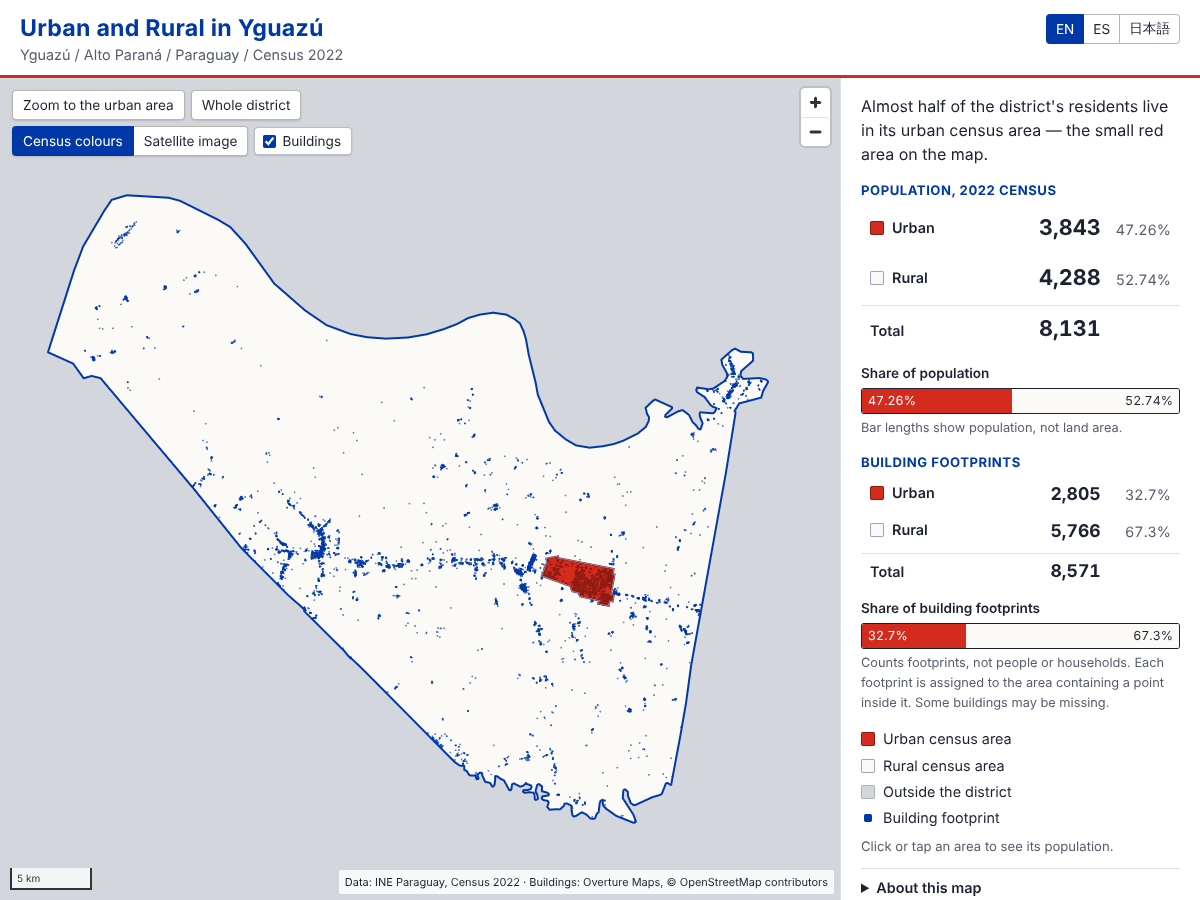
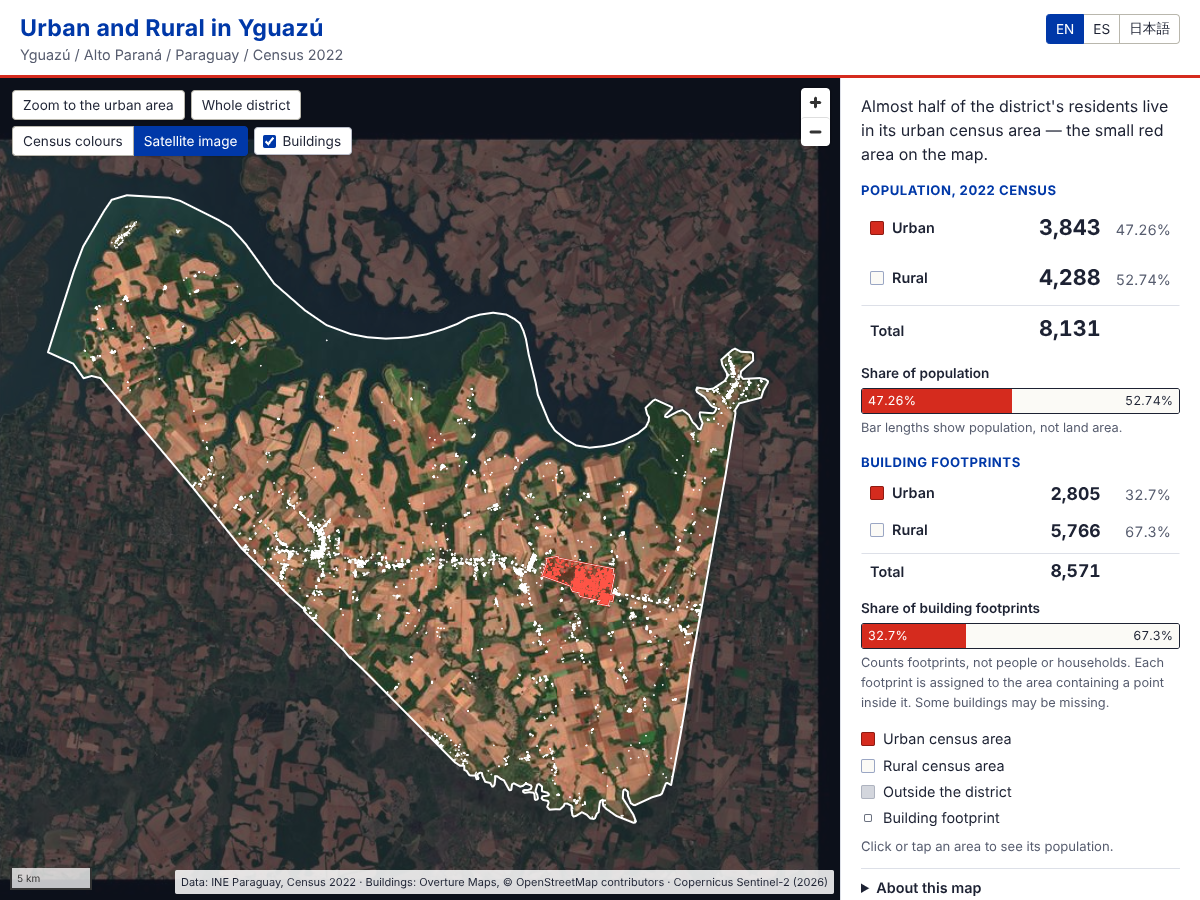
初期表示を衛星写真と建物にする
衛星写真表示では都市区域内の建物を赤、農村の建物を白で描き、都市区域の
塗りを濃くして小さな都市区域が見えるようにする。凡例と画面キャプチャを更新。

diff --git a/src/main.ts b/src/main.ts
@@ -28,6 +28,7 @@ const C = {
   outside: "#d3d6dd",
   buildingRural: "#0038a8",
   buildingUrban: "#ffffff",
+  satUrbanBuilding: "#ff5446",
 };
 const SATELLITE_TILES = `${new URL(import.meta.env.BASE_URL, location.href).href}tiles/s2-20260926/{z}/{x}/{y}.jpg`;
 // タイルを作った範囲（地区の外接矩形 + 0.03°）
@@ -65,7 +66,8 @@ let buildingError: unknown = null;
 let selected: number | null = null;
 let popup: maplibregl.Popup | null = null;
 let loadError: unknown = null;
-let view: "census" | "satellite" = "census";
+// 初期表示は衛星写真＋建物
+let view: "census" | "satellite" = "satellite";
 let showBuildings = true;
 
 function stats() {
@@ -290,23 +292,24 @@ function applyView() {
   map.setPaintProperty(
     "area-fill",
     "fill-opacity",
-    sat ? ["case", isUrban, ["case", isSelected, 0.35, 0.18], ["case", isSelected, 0.18, 0]] : 1,
+    sat ? ["case", isUrban, ["case", isSelected, 0.45, 0.3], ["case", isSelected, 0.18, 0]] : 1,
   );
   map.setPaintProperty("area-line", "line-color", ["case", isUrban, sat ? C.red : C.redDark, sat ? "#ffffff" : C.ruralLine]);
   map.setPaintProperty("district-outline", "line-color", sat ? "#ffffff" : C.blue);
   map.setPaintProperty(
     "buildings",
     "fill-color",
-    sat ? "#ffffff" : ["case", isUrban, C.buildingUrban, C.buildingRural],
+    // 衛星写真では都市の建物を赤、農村の建物を白にして、都市区域が赤く見えるようにする
+    sat ? ["case", isUrban, C.satUrbanBuilding, "#ffffff"] : ["case", isUrban, C.buildingUrban, C.buildingRural],
   );
   map.setPaintProperty("buildings", "fill-opacity", sat ? 0.85 : ["case", isUrban, 0.9, 0.75]);
   map.setPaintProperty(
     "building-points",
     "circle-color",
     // 広域では都市の点を濃い赤にして、赤い都市区域が点で白く埋もれないようにする
-    sat ? "#ffffff" : ["case", isUrban, C.redDark, C.buildingRural],
+    sat ? ["case", isUrban, C.satUrbanBuilding, "#ffffff"] : ["case", isUrban, C.redDark, C.buildingRural],
   );
-  map.setPaintProperty("building-points", "circle-opacity", sat ? 0.8 : ["case", isUrban, 0.55, 0.6]);
+  map.setPaintProperty("building-points", "circle-opacity", sat ? 0.9 : ["case", isUrban, 0.55, 0.6]);
   $("view-census").setAttribute("aria-pressed", String(!sat));
   $("view-satellite").setAttribute("aria-pressed", String(sat));
   document.body.dataset.view = view;

diff --git a/index.html b/index.html
@@ -25,8 +25,8 @@
           </div>
           <div class="row layers">
             <div class="seg" role="group">
-              <button type="button" id="view-census" data-t="viewCensus" aria-pressed="true" disabled></button>
-              <button type="button" id="view-satellite" data-t="viewSatellite" aria-pressed="false" disabled></button>
+              <button type="button" id="view-census" data-t="viewCensus" aria-pressed="false" disabled></button>
+              <button type="button" id="view-satellite" data-t="viewSatellite" aria-pressed="true" disabled></button>
             </div>
             <label class="check"><input type="checkbox" id="show-buildings" disabled /> <span data-t="showBuildings"></span></label>
           </div>

diff --git a/src/style.css b/src/style.css
@@ -159,6 +159,8 @@ button:disabled { opacity: 0.45; cursor: default; }
 .sw-rural { background: var(--rural); border: 1px solid var(--rural-line); }
 .sw-outside { background: var(--outside); border: 1px solid #aeb3bf; }
 .sw-building { background: var(--blue); border: 1px solid var(--blue); width: 8px; height: 8px; margin: 3px; }
+/* 衛星写真表示では建物は白（都市区域内は赤）で描くので凡例も合わせる */
+body[data-view="satellite"] .sw-building { background: #fff; border-color: #6b7180; }
 
 .legend { list-style: none; padding: 0; margin: 16px 0 4px; display: grid; gap: 4px; }
 .legend li { display: flex; align-items: center; gap: 8px; }

diff --git a/README.md b/README.md
@@ -90,7 +90,9 @@ python scripts/s2-tiles.py work public/tiles/s2-20260926
 - 座標が経緯度の範囲にあるか（緯度・経度の入れ替わりがないか）、都市・農村が1行ずつあるかを確認し、MapLibre GL JS の GeoJSON source に渡す。
 - 都市・農村データの取得や検証に失敗した場合は地図と数値を表示せず、エラーを表示する。建物データだけが失敗した場合は建物欄にエラーを出し、国勢調査の地図は表示する。代替のデータは使わない。
 - 建物は拡大時（ズーム12.5以上）に輪郭、広域では建物ごとの点で表示する。
-- 「区分の色」表示では地区外は無彩色の背景。「衛星写真」表示では自前で作ったタイルを表示し、地区外を暗くする。外部の地図タイルサービスは使っていない。
+- 初期表示は「衛星写真」＋建物。自前で作ったタイルを表示し、地区外を暗くする。都市区域は赤い半透明の面、建物は都市区域内を赤、農村区域を白で描く。
+- 「区分の色」表示では都市を赤、農村を白で塗り、地区外は無彩色の背景にする。
+- 外部の地図タイルサービスは使っていない。
 - 配色はパラグアイの国旗の赤・白・青に寄せたが、国旗・国章そのものは使っていない（政府の公式作品と誤認させないため）。
 
 `npm run check` は Node.js で同じファイルを読み、人口合計8,131・比率・ハッシュ・CRS、建物の棟数と区分を確認し、`src/wkb.ts` の復号結果が hyparquet 内蔵の復号結果と一致することを検査する。衛星タイルがあることも確認する。
